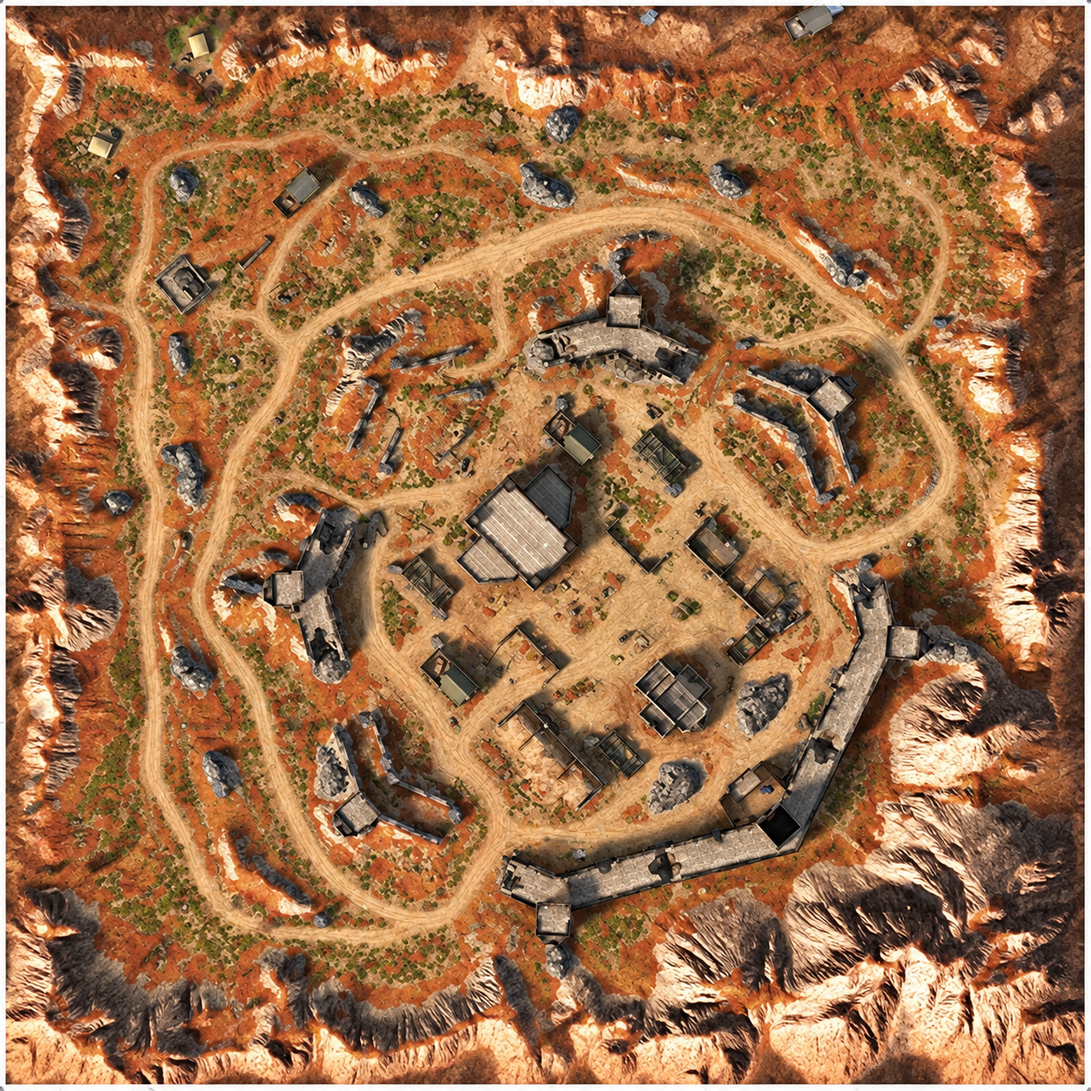
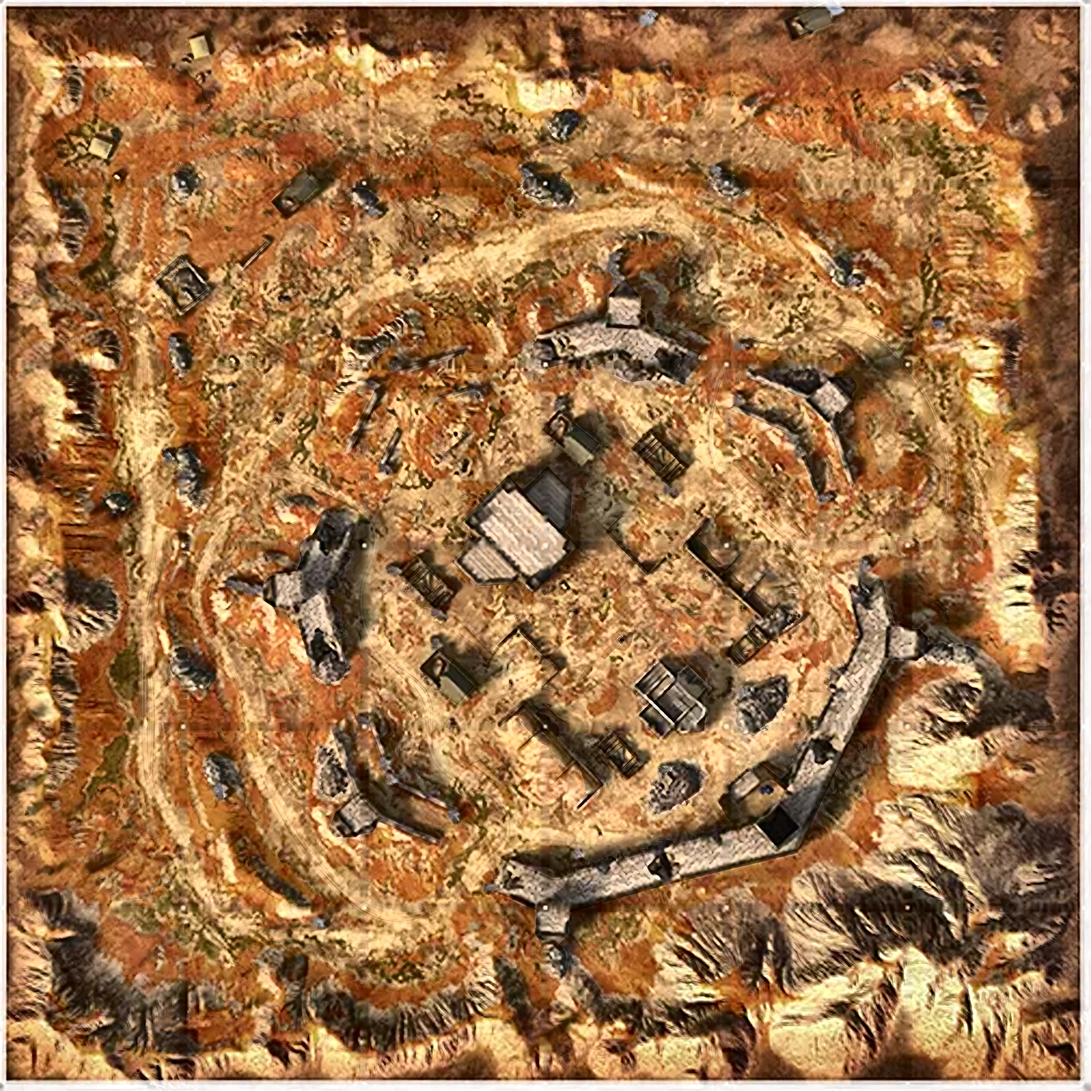
chore: keep fort despair HD asset unchanged

diff --git a/docs/reference/maps.md b/docs/reference/maps.md
@@ -92,13 +92,13 @@ python common/python/extract_map_bases.py <同上> --check   # CI：过期即失
 - 每张 HD 图必须对应一张原图，实际 WebP 画布严格为原图 2×（宽高均 2×），不允许 crop 或 aspect-ratio drift。
 - `frontend/src/data/mapHdAssets.test.js` 校验 29/29 coverage、manifest SHA-256、实际 WebP 尺寸、`mapImages.js` HD import coverage，以及 delivery budget。
 - 单张 HD 图预算：不超过 5 MiB，且不超过对应原图 4× 文件大小；这是面向 Android/移动端与大陆链路的硬上限，不代表必须用满。
-- `geometryTransform=NONE` 只说明生成 pipeline 未显式执行 warp/crop；它**不能证明** AI restoration 没有改变局部道路边缘、建筑轮廓、岸线或掩体边界。HD 资源合并前仍需 28 张现役地图逐张完成 source ↔ HD overlay/side-by-side 人工视觉 QA；废弃地图 `wasteland` 保留现有 V1 HD，不纳入替换。
+- `geometryTransform=NONE` 只说明生成 pipeline 未显式执行 warp/crop；它**不能证明** AI restoration 没有改变局部道路边缘、建筑轮廓、岸线或掩体边界。HD 资源合并前仍需 27 张替换地图逐张完成 source ↔ HD overlay/side-by-side 人工视觉 QA；`fort-despair` 与废弃地图 `wasteland` 均保留现有 V1 HD，不纳入替换。
 
 ### PR #288 视觉 QA 记录
 
-- 28/28 张现役地图均由项目 owner 逐张完成 source / HD 对照审核后导入 PR。
+- 27 张替换地图均由项目 owner 逐张完成 source / HD 对照审核后导入 PR。
 - 审核中发现颜色或 palette 漂移、植被缺失或凭空新增、水体/河流错误、过度增强、地形细节改变的候选均已拒绝并重新生成。
-- `wasteland` 是废弃地图，保持原有 HD 资源，不参与本次替换。
+- `fort-despair` 按要求保持原版；`wasteland` 是废弃地图，也保持原有 HD 资源。
 - 所有替换图保持 4048×4048 WebP；`dead-rail` 与 `faust` 使用 quality 80 以满足单图 5 MiB 与原图 4×增长预算，最终视觉效果已包含在人工审核中。
 - manifest 顶层使用 `generationRule=PER_ENTRY_METHOD`；每个 entry 的 `method` 记录真实资源来源。
 - runtime 坐标、投影和 overlay 逻辑未修改；宏边缘指标只能用于发现可疑图，不能替代人工视觉判断。
